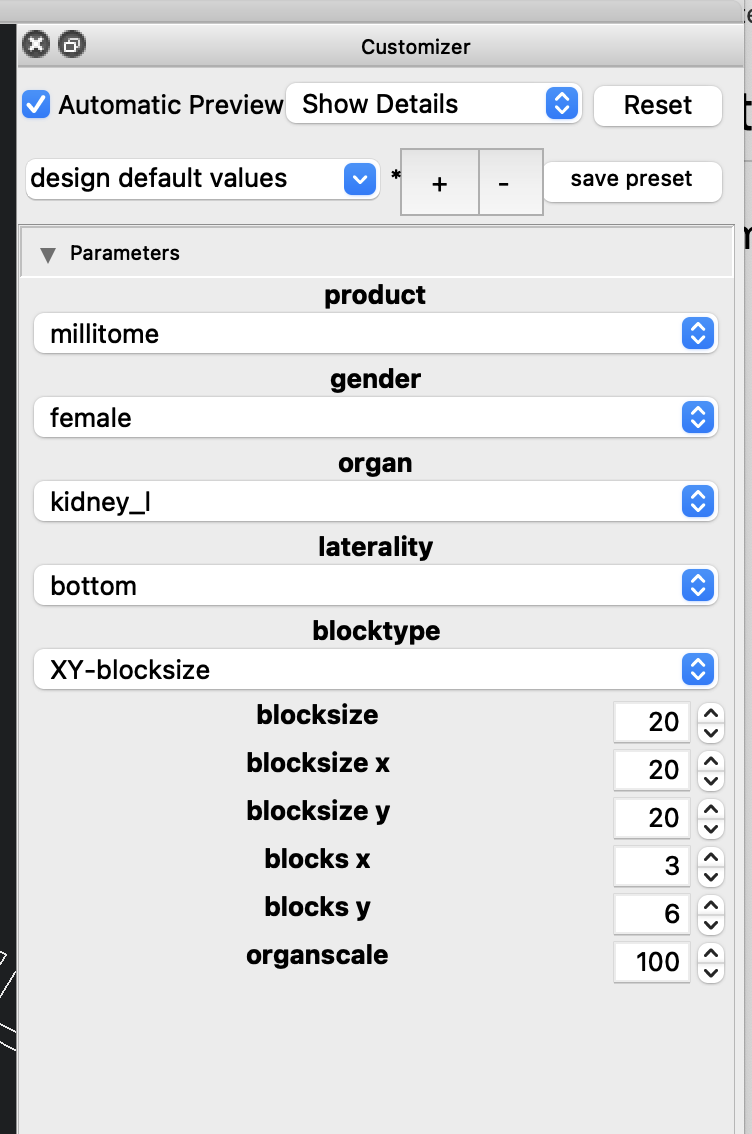
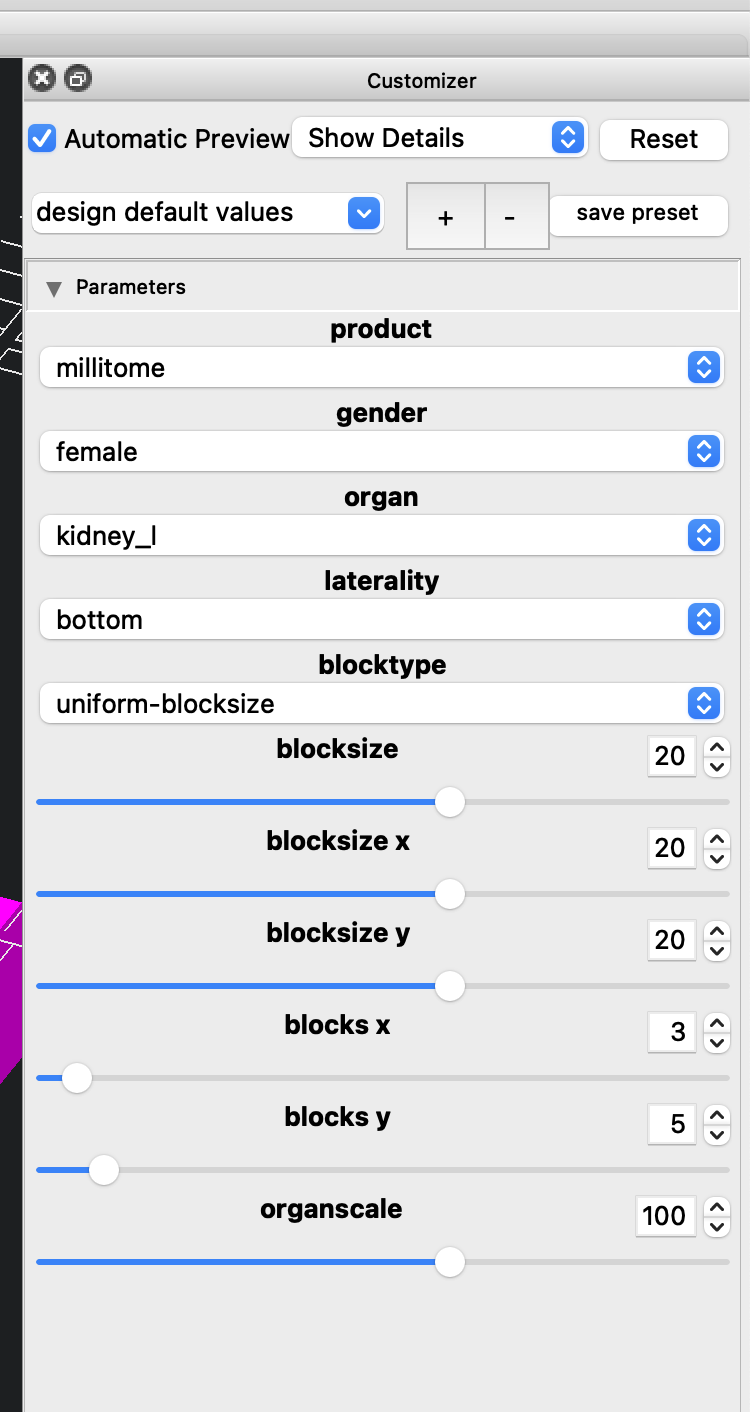
labeling, zero cuts, font adjustments

Changed region(s): [[0.0, 0.0, 1.0, 1.0]]

diff --git a/millitome-physical/Creating Customized Physical Millitome.md b/millitome-physical/Creating Customized Physical Millitome.md
@@ -20,9 +20,10 @@
 - The [OpenSCAD](https://openscad.org) application must be installed
 - Launch "MT-Customizer.scad"
 - If Customizer panel is not open, use ->Window->Customizer
+- If the parameter list is not showing, click the small disclosure triangle to the left of "Parameters"
 
 <p align="center">
-  <img src="images/mt-customizer-1.png" height="500">
+  <img src="images/mt-customizer-1.png" height="550">
 </p>
 
 ### **Choose and customize 3D asset**
@@ -32,12 +33,12 @@
 - organ
 - laterality: top, bottom
 - blocktype: uniform-blocksize, XY-blocksize, XY-blockcount
-- blocksize: set both X and Y to entered value (used by uniform-blocksize)
-- blocksize_x: set X to entered value (used by XY-blocksize)
-- blocksize_y: set Y to entered value (used by XY-blocksize)
-- blocks_x: number of blocks along X (used by XY-blockcount)
-- blocks_y: number of blocks along Y (used by XY-blockcount)
-- organscale: 1-nnn percent where 100 is default scale
+- blocksize: used by uniform-blocksize for X & Y
+- blocksize_x: used by XY-blocksize for X
+- blocksize_y: used by XY-blocksize for Y
+- blocks_x: number of blocks along X, used by XY-blockcount; if 1 no segmentation
+- blocks_y: number of blocks along Y, used by XY-blockcount; if 1 no segmentation
+- organscale: 1-150 percent where 100 is default scale
 
 Note: If Automatic Preview is checked, every change in the Customizer panel will initiate rendering of the requested asset. Some asset configurations such as large iceboxes can take several minutes to preview. To make multiple adjustments in the Customizer panel, it is recommended to uncheck Automatic Preview.
 
